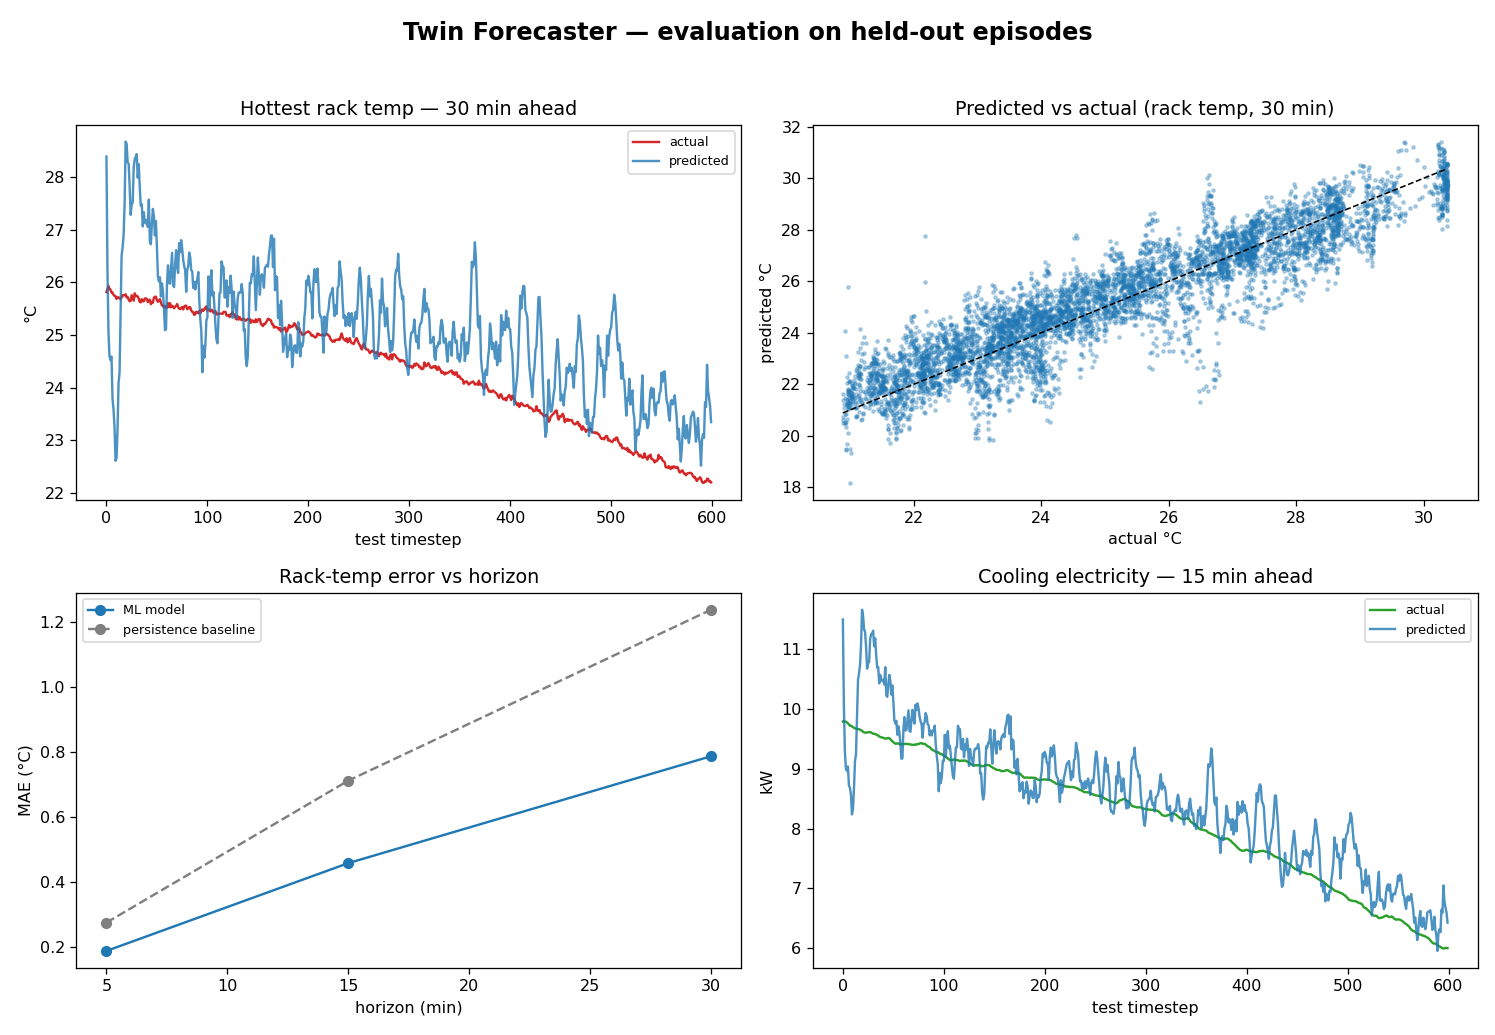
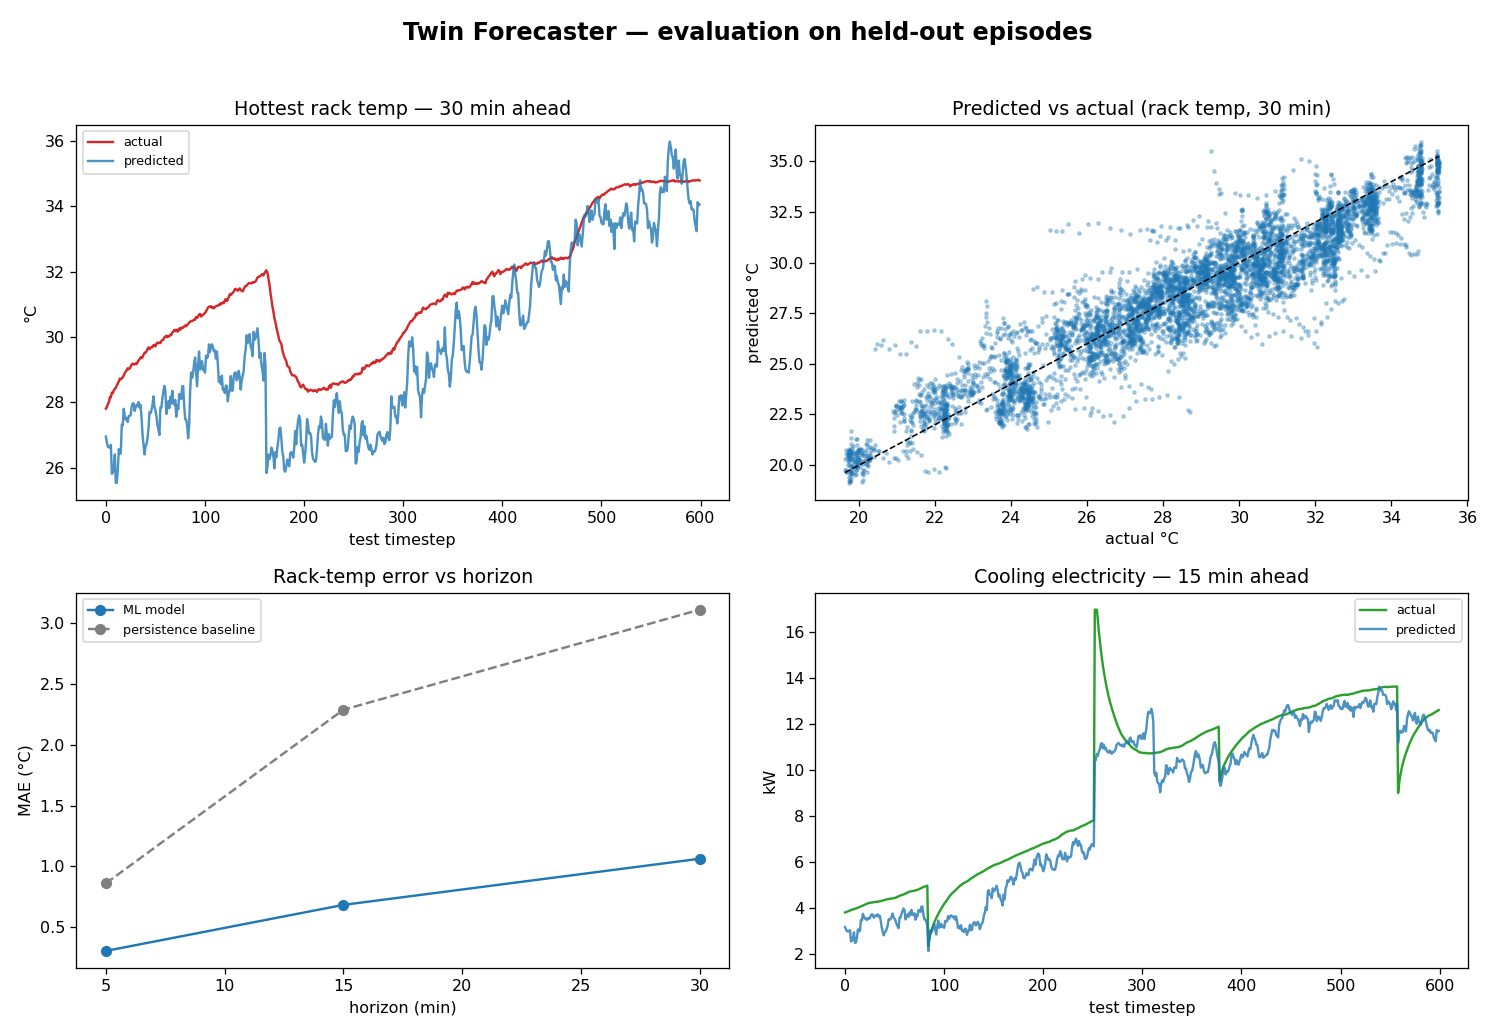
Add setpoint-dependent COP and M5 sensitivity gate
CRAC efficiency now scales with supply setpoint (cop_at) so the
optimizer has a real efficiency lever to exploit, not just a cooling
demand tradeoff. Training episodes randomize the setpoint schedule so
the forecaster learns the knob's effect, and
check_setpoint_sensitivity.py gates that the trained model actually
responds to it before the optimizer is trusted to use it.

diff --git a/check_setpoint_sensitivity.py b/check_setpoint_sensitivity.py
@@ -1,0 +1,181 @@
+"""
+Sensitivity check: does the forecaster actually respond to the setpoint knob?
+
+This is the gate for M5. The optimizer works by asking the forecaster a
+counterfactual -- "if I hold the CRAC setpoint at X for the next H minutes,
+where do the racks end up and what does cooling cost?" -- and then picking the
+best answer. If the model's predictions barely move when X moves, there is
+nothing to optimize and the optimizer would just return noise.
+
+So: take ONE episode of real plant history, then re-predict it under a sweep of
+hypothetical setpoints via build_features(setpoint_override=...). Everything
+except the setpoint columns stays fixed, so any change in the prediction is
+attributable to the knob.
+
+Note on what stays fixed: the anchor features (current temps, lags, load) come
+from the episode as actually run. That is deliberate and matches how the
+optimizer will be used -- it observes the plant's real current state, then asks
+what happens if it changes the setpoint FROM HERE.
+
+Run:
+    python3 check_setpoint_sensitivity.py
+
+Prints a sweep table + a verdict, and writes setpoint_sensitivity.png.
+"""
+
+from __future__ import annotations
+import sys
+
+import numpy as np
+import matplotlib
+matplotlib.use("Agg")
+import matplotlib.pyplot as plt
+
+from config import DEFAULT
+from dataset import run_episode, build_features, HORIZONS_MIN
+from forecaster import TwinForecaster
+
+SWEEP = np.arange(16.0, 24.5, 1.0)     # candidate setpoints to test, °C
+EPISODE_SEED = 999                     # unseen by training (which used seed=0)
+# Minimum credible response. Physics: cooling gain is 8 kW/K, so 1 K of setpoint
+# is ~8 kW of cooling heat withheld. Over an 8 K sweep the hottest rack should
+# move by well over a degree. Anything flatter means the knob is being ignored.
+MIN_SPAN_C = 0.5
+
+
+def main() -> int:
+    try:
+        fc = TwinForecaster.load("forecaster.joblib")
+    except FileNotFoundError:
+        print("No forecaster.joblib found. Run train_forecaster.py first.")
+        return 1
+
+    print("Generating one held-out episode (seed=%d)..." % EPISODE_SEED)
+    rng = np.random.default_rng(EPISODE_SEED)
+    series = run_episode(DEFAULT, rng)
+
+    # Trim the tail the same way make_supervised does, so no row references a
+    # future that ran off the end of the episode.
+    valid = len(series["t_rack_max"]) - max(HORIZONS_MIN) * 6
+    it_kw = series["it_power_kw"][:valid]
+
+    # Sanity: the override must not change the feature schema, or the model's
+    # column indices would silently point at the wrong things.
+    _, names_ref = build_features(series, setpoint_override=SWEEP[0])
+    if names_ref != fc.feature_names:
+        print("FEATURE SCHEMA MISMATCH -- forecaster.joblib is stale.")
+        print("  model expects:", fc.feature_names)
+        print("  dataset gives:", names_ref)
+        print("Retrain with train_forecaster.py.")
+        return 1
+
+    results = {h: {"rack": [], "cool": [], "pue": []} for h in HORIZONS_MIN}
+
+    for sp in SWEEP:
+        X, _ = build_features(series, setpoint_override=float(sp))
+        X = X[:valid]
+        for h in HORIZONS_MIN:
+            rack = fc.predict(X, "t_rack_max", h)
+            cool = fc.predict(X, "cooling_elec_kw", h)
+            # PUE = (IT + cooling elec) / IT, using the episode's real IT load.
+            pue = (it_kw + cool) / it_kw
+            results[h]["rack"].append(float(np.mean(rack)))
+            results[h]["cool"].append(float(np.mean(cool)))
+            results[h]["pue"].append(float(np.mean(pue)))
+
+    _print_tables(results)
+    verdict = _print_verdict(results)
+    _plot(results)
+    print("\nSaved plot -> setpoint_sensitivity.png")
+    return 0 if verdict else 2
+
+
+def _print_tables(results: dict) -> None:
+    limit = DEFAULT.rack.limit_temp_c
+    for h in HORIZONS_MIN:
+        r = results[h]
+        print(f"\n{h}-minute horizon   (mean over {len(SWEEP)} setpoints, "
+              f"rack limit {limit:.0f} °C)")
+        print(f"  {'setpoint':>9} | {'pred rack':>10} | {'margin':>8} | "
+              f"{'pred cool':>10} | {'pred PUE':>9}")
+        print("  " + "-" * 60)
+        for i, sp in enumerate(SWEEP):
+            rack = r["rack"][i]
+            flag = "  <-- OVER LIMIT" if rack >= limit else ""
+            print(f"  {sp:>7.1f}°C | {rack:>8.2f}°C | {limit - rack:>+7.2f} | "
+                  f"{r['cool'][i]:>8.2f}kW | {r['pue'][i]:>9.4f}{flag}")
+
+
+def _print_verdict(results: dict) -> bool:
+    print("\n" + "=" * 68)
+    print("VERDICT")
+    print("=" * 68)
+
+    ok = True
+    for h in HORIZONS_MIN:
+        rack = np.array(results[h]["rack"])
+        cool = np.array(results[h]["cool"])
+        span = rack.max() - rack.min()
+        # Slope in °C of rack temp per °C of setpoint, via least squares.
+        slope = np.polyfit(SWEEP, rack, 1)[0]
+        # Monotone rising? Warmer supply air should mean warmer racks.
+        mono = bool(np.all(np.diff(rack) > -1e-9))
+        # Cooling should fall as the setpoint rises.
+        cool_falls = bool(np.all(np.diff(cool) < 1e-9))
+
+        print(f"\n  {h}-minute horizon")
+        print(f"    rack temp span over sweep : {span:.3f} °C "
+              f"({'ok' if span >= MIN_SPAN_C else 'TOO FLAT'})")
+        print(f"    slope d(rack)/d(setpoint) : {slope:+.3f} °C/°C")
+        print(f"    rack rises with setpoint  : {'yes' if mono else 'NO'}")
+        print(f"    cooling falls w/ setpoint : {'yes' if cool_falls else 'NO'}")
+
+        if span < MIN_SPAN_C or not mono or not cool_falls:
+            ok = False
+
+    print()
+    if ok:
+        print("  PASS -- the model responds to the knob in the right direction.")
+        print("  There is a real tradeoff for the optimizer to exploit.")
+    else:
+        print("  FAIL -- the model is not usable for optimization yet.")
+        print("  Likely causes: setpoint columns missing from the feature set,")
+        print("  forecaster.joblib trained before they were added, or the")
+        print("  training setpoints never varied.")
+    return ok
+
+
+def _plot(results: dict) -> None:
+    limit = DEFAULT.rack.limit_temp_c
+    fig, axes = plt.subplots(1, 3, figsize=(15, 4.5))
+    fig.suptitle("Setpoint sensitivity — does the forecaster respond to the knob?",
+                 fontsize=14, fontweight="bold")
+
+    ax = axes[0]
+    for h in HORIZONS_MIN:
+        ax.plot(SWEEP, results[h]["rack"], "o-", label=f"{h} min")
+    ax.axhline(limit, ls="--", color="k", lw=1, label="rack limit")
+    ax.set_title("Predicted hottest rack")
+    ax.set_xlabel("CRAC setpoint (°C)"); ax.set_ylabel("°C")
+    ax.legend(fontsize=8)
+
+    ax = axes[1]
+    for h in HORIZONS_MIN:
+        ax.plot(SWEEP, results[h]["cool"], "o-", label=f"{h} min")
+    ax.set_title("Predicted cooling electricity")
+    ax.set_xlabel("CRAC setpoint (°C)"); ax.set_ylabel("kW")
+    ax.legend(fontsize=8)
+
+    ax = axes[2]
+    for h in HORIZONS_MIN:
+        ax.plot(SWEEP, results[h]["pue"], "o-", label=f"{h} min")
+    ax.set_title("Implied PUE")
+    ax.set_xlabel("CRAC setpoint (°C)"); ax.set_ylabel("PUE")
+    ax.legend(fontsize=8)
+
+    fig.tight_layout(rect=[0, 0, 1, 0.93])
+    fig.savefig("setpoint_sensitivity.png", dpi=115)
+
+
+if __name__ == "__main__":
+    sys.exit(main())

diff --git a/dataset.py b/dataset.py
@@ -1,5 +1,5 @@
 """
-Training-data generator for the ML forecaster (Milestone 3).
+Training-data generator for the ML forecaster (Milestone 3, extended for M5).
 
 The forecaster's job: given the twin's recent history, predict the hottest
 rack temperature and the cooling electricity some minutes into the future.
@@ -14,9 +14,10 @@ So here we treat the simulator only as a data source and never let the model
 peek at the physics equations.
 
 What this file does:
-  1. Runs many short "episodes" with randomized load profiles for variety.
+  1. Runs many short "episodes" with randomized load profiles AND randomized
+     CRAC setpoint schedules, for variety.
   2. Turns each episode's time series into supervised samples:
-        X = features describing the recent past + known near-future load
+        X = features describing the recent past + the setpoint in effect
         y = target value H steps into the future
   3. Splits episodes into train/test (never mixing an episode across both,
      so there's no time leakage).
@@ -34,6 +35,12 @@ HORIZONS_MIN = [5, 15, 30]
 N_LAGS = 6
 # Targets we forecast.
 TARGETS = ["t_rack_max", "cooling_elec_kw"]
+
+# CRAC setpoint randomization (M5). The optimizer will move this knob, so the
+# forecaster has to have seen it move.
+SETPOINT_MIN_C = 16.0
+SETPOINT_MAX_C = 24.0
+SETPOINT_HOLD_MIN = (15, 31)      # a setpoint is held this many minutes
 
 
 def random_load_profile(cfg: Config, rng: np.random.Generator) -> np.ndarray:
@@ -70,20 +77,47 @@ def random_load_profile(cfg: Config, rng: np.random.Generator) -> np.ndarray:
     return np.clip(load, idle * 0.5, cfg.rack.max_power_kw)
 
 
+def random_setpoint_schedule(cfg: Config, rng: np.random.Generator) -> np.ndarray:
+    """
+    Piecewise-constant CRAC setpoint over one episode.
+
+    Held for 15-30 min, then stepped to a new value. The piecewise structure
+    matters: the optimizer changes the setpoint at discrete control intervals,
+    so the model needs examples of both the steady-state effect of a setpoint
+    LEVEL and the transient response to a setpoint CHANGE. An episode with one
+    fixed setpoint would only ever teach the first.
+    """
+    n_steps = int(cfg.sim.duration_s / cfg.sim.dt_s)
+    per_min = int(60 / cfg.sim.dt_s)
+
+    sp = np.empty(n_steps)
+    k = 0
+    while k < n_steps:
+        hold = int(rng.integers(*SETPOINT_HOLD_MIN)) * per_min
+        sp[k:k + hold] = rng.uniform(SETPOINT_MIN_C, SETPOINT_MAX_C)
+        k += hold
+    return sp
+
+
 def run_episode(cfg: Config, rng: np.random.Generator) -> dict:
-    """Step the plant once with a random load; return time series arrays."""
+    """Step the plant once with a random load AND a random setpoint schedule."""
     model = DataCenterThermalModel(cfg)
     load = random_load_profile(cfg, rng)
+    setpoint = random_setpoint_schedule(cfg, rng)
+
     n = load.shape[0]
     series = {k: np.empty(n) for k in
-              ["it_power_kw", "t_air", "t_rack_max", "cooling_elec_kw", "q_cooling_kw"]}
+              ["it_power_kw", "t_air", "t_rack_max", "cooling_elec_kw",
+               "q_cooling_kw", "setpoint_c"]}
+
     for k in range(n):
-        obs = model.step(load[k])
+        obs = model.step(load[k], supply_temp_c=setpoint[k])
         series["it_power_kw"][k] = obs["it_power_kw"]
         series["t_air"][k] = obs["T_air"]
         series["t_rack_max"][k] = obs["T_rack_max"]
         series["cooling_elec_kw"][k] = obs["cooling_elec_kw"]
         series["q_cooling_kw"][k] = obs["q_cooling_kw"]
+        series["setpoint_c"][k] = setpoint[k]
     return series
 
 
@@ -95,7 +129,8 @@ def _rolling_mean(x: np.ndarray, w: int) -> np.ndarray:
     return np.concatenate([pad, out])
 
 
-def build_features(series: dict) -> tuple[np.ndarray, list[str]]:
+def build_features(series: dict,
+                   setpoint_override=None) -> tuple[np.ndarray, list[str]]:
     """
     Turn one episode's time series into a feature matrix (one row per timestep).
 
@@ -104,6 +139,7 @@ def build_features(series: dict) -> tuple[np.ndarray, list[str]]:
     model smoothed trends rather than raw instantaneous values. Concretely:
 
       - current temps (already smooth) as anchors
+      - the CRAC setpoint in effect, plus the cooling gap it creates
       - SMOOTHED load at two timescales (1 min and 5 min rolling means) so the
         model sees the workload trend, not the sensor jitter
       - a smoothed rate-of-change of rack temp (its 'momentum' / direction)
@@ -112,6 +148,9 @@ def build_features(series: dict) -> tuple[np.ndarray, list[str]]:
     Smoothing here is what removes the jumpy predictions: the noisy raw load and
     raw rate-of-change were tricking the trees into reacting to meaningless
     high-frequency wiggle.
+
+    setpoint_override lets the optimizer ask a counterfactual: "what if I held
+    the setpoint at X from here?" Accepts a scalar or a full-length array.
     """
     n = len(series["t_rack_max"])
     cols: dict[str, np.ndarray] = {}
@@ -125,6 +164,29 @@ def build_features(series: dict) -> tuple[np.ndarray, list[str]]:
     cols["t_rack_max_now"] = series["t_rack_max"]
     cols["t_air_now"] = series["t_air"]
     cols["cooling_elec_kw_now"] = series["cooling_elec_kw"]
+
+    # --- CRAC setpoint: the control knob (M5) ---
+    if setpoint_override is None:
+        sp = series.get("setpoint_c", np.full(n, DEFAULT.crac.supply_temp_c))
+    else:
+        sp = np.broadcast_to(np.asarray(setpoint_override, dtype=float), (n,))
+    cols["setpoint_now"] = sp
+    # The gap is what physically drives cooling: q_cool = gain x max(0, gap).
+    # Handing the model the gap directly beats making a linear model infer it.
+    cols["cooling_gap"] = np.maximum(0.0, series["t_air"] - sp)
+
+    # Setpoint in effect at each forecast horizon. Known at inference because
+    # the optimizer PICKS it — same status as known near-future load.
+    for h_min in HORIZONS_MIN:
+        h = h_min * 6
+        if setpoint_override is None:
+            fut = np.empty(n)
+            fut[:n - h] = sp[h:]
+            fut[n - h:] = sp[-1]        # tail is trimmed by make_supervised anyway
+        else:
+            fut = sp                     # optimizer holds its candidate constant
+        cols[f"setpoint_at_{h_min}m"] = fut
+
 
     # Smoothed workload trend (signal, not jitter)
     cols["load_mean_1m"] = load_1m

diff --git a/thermal_model.py b/thermal_model.py
@@ -70,6 +70,10 @@ class DataCenterThermalModel:
         R_ao = cfg.room.r_air_to_outside  # thermal resistance air -> outside (K/kW)
         T_out = cfg.sim.outside_temp_c
 
+        # Resolve the setpoint here so both the cooling demand and the COP see
+        # the same value (the optimizer's control knob).
+        setpoint = cfg.crac.supply_temp_c if supply_temp_c is None else supply_temp_c
+
         it_power_kw = np.asarray(it_power_kw, dtype=float)
 
         # ============================================================
@@ -83,7 +87,7 @@ class DataCenterThermalModel:
         q_rack_to_air = (self.T_rack - self.T_air) / R_ra          # kW, one per rack
 
         # 1b) The CRAC pulls heat out of the air (proportional controller above).
-        q_cool = self.cooling_heat_kw(supply_temp_c)               # kW
+        q_cool = self.cooling_heat_kw(setpoint)                     # kW         # kW
 
         # 1c) The building envelope. If it's warmer outside, heat leaks IN
         #     (positive); if cooler outside, heat leaks out (negative).
@@ -121,6 +125,8 @@ class DataCenterThermalModel:
         it_total_kw = float(it_power_kw.sum())
         total_facility_kw = it_total_kw + cooling_elec_kw
         pue = total_facility_kw / it_total_kw if it_total_kw > 0 else float("nan")
+        cop = cfg.crac.cop_at(setpoint)
+        cooling_elec_kw = q_cool / cop
 
         return {
             "T_rack": self.T_rack.copy(),
@@ -131,6 +137,8 @@ class DataCenterThermalModel:
             "it_power_kw": it_total_kw,
             "total_facility_kw": total_facility_kw,
             "pue": pue,
+            "supply_temp_c": setpoint,
+            "cop": cop
         }
 
 

diff --git a/config.py b/config.py
@@ -33,8 +33,22 @@ class CRACConfig:
     supply_temp_c: float = 18.0      # cold air supply setpoint
     # Cooling power is proportional to (air_temp - supply_temp), capped at max.
     gain_kw_per_k: float = 8.0       # how aggressively it reacts to warm air
-    # Electrical: cooling isn't free. Cooling electricity = heat removed / COP.
-    cop: float = 4.0                 # coefficient of performance (heat moved per elec kW)
+     # Electrical: cooling isn't free. Cooling electricity = heat removed / COP.
+    # COP is NOT constant: pumping heat uphill gets cheaper as the lift shrinks,
+    # so a warmer supply setpoint buys real efficiency. Carnot would give ~26%/K
+    # here; 3%/K is the conservative real-equipment figure (fixed losses don't
+    # shrink with the lift). This is the main lever the M5 optimizer exploits.
+    cop: float = 4.0                 # COP quoted AT cop_ref_temp_c
+    cop_ref_temp_c: float = 18.0     # supply temp the quoted COP applies to
+    cop_gain_per_k: float = 0.03     # +3% COP per K of warmer supply air
+    cop_min: float = 1.5             # floor, keeps COP sane at extreme setpoints
+
+    def cop_at(self, supply_temp_c: float) -> float:
+        """Effective COP at a given supply setpoint."""
+        scaled = self.cop * (
+            1.0 + self.cop_gain_per_k * (supply_temp_c - self.cop_ref_temp_c)
+        )
+        return max(self.cop_min, scaled)
 
 
 @dataclass
